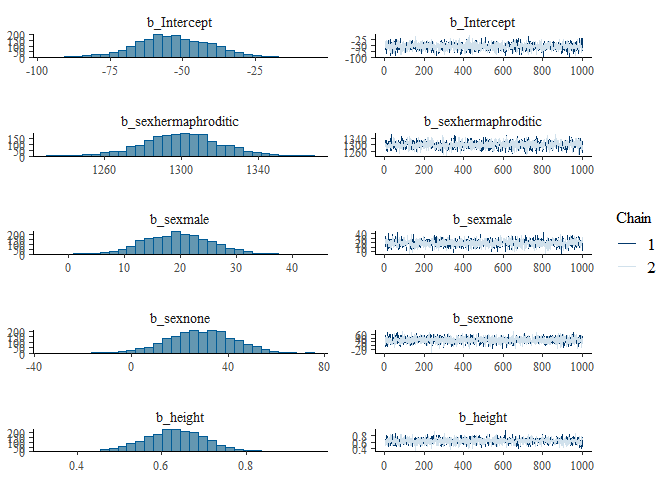
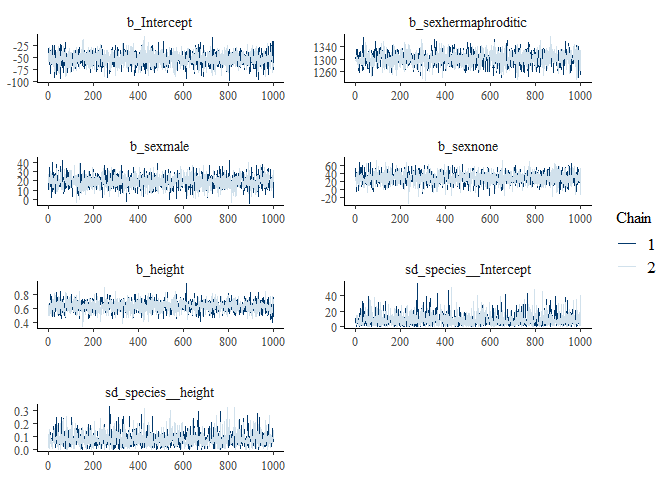
Edited README file

diff --git a/README.md b/README.md
@@ -28,28 +28,26 @@ Full documentation website on: <https://gabewinter.github.io/VarDecomp>
 ## Example
 
 ``` r
-library(VarDecomp)
-
 md = dplyr::starwars
 
-mod = brms_model(Chainset = "long", 
+mod = VarDecomp::brms_model(Chainset = 1, 
            Response = "mass", 
            FixedEffect = c("sex","height"), 
            RandomEffect = "species", 
            RandomSlope = "height", 
            Family = "gaussian", 
            Data = md, 
-          Seed = 0405)
-#> [1] "No problem 🤩"
+           Seed = 0405)
+#> [1] "No problem 😄"
 #> Warning: Rows containing NAs were excluded from the model.
 #> Compiling Stan program...
 #> Start sampling
 
-var_decomp(mod)
+VarDecomp::var_decomp(mod)
 #> New names:
 #> • `sex` -> `sex...1`
 #> • `sex` -> `sex...3`
-#> # A tibble: 16 × 6
+#> # A tibble: 15 × 6
 #>    variable                 mean   median     sd lower_HPD upper_HPD
 #>    <chr>                   <dbl>    <dbl>  <dbl>     <dbl>     <dbl>
 #>  1 Intercept             -53.2    -53.5   13.2     -79.2     -27.5  
@@ -59,13 +57,45 @@ var_decomp(mod)
 #>  5 height                  0.631    0.632  0.073     0.491     0.776
 #>  6 species_height          0.082    0.075  0.05      0         0.176
 #>  7 cor_species_height     -0.364   -0.545  0.573    -1         0.758
-#>  8 sigma                  14.5     14.4    1.93     10.9      18.2  
-#>  9 R2_height               0.816    0.82   0.049     0.719     0.909
-#> 10 R2_sexmale              0.004    0.004  0.001     0.001     0.006
-#> 11 R2_sexnone              0.002    0.002  0.001     0         0.004
-#> 12 R2_sexhermaphroditic    0.023    0.023  0.003     0.018     0.028
-#> 13 R2_FixedEffects         0.845    0.848  0.05      0.747     0.937
-#> 14 R2_species_height       0.014    0.008  0.019     0         0.049
-#> 15 R2_species             -0.06    -0.06   0.007    -0.074    -0.048
-#> 16 R2_residual             0.216    0.212  0.049     0.133     0.318
+#>  8 R2_height               0.017    0.017  0.004     0.01      0.025
+#>  9 R2_sexmale              0.003    0.002  0.002     0         0.006
+#> 10 R2_sexnone              0.002    0.002  0.002     0         0.006
+#> 11 R2_sexhermaphroditic    0.966    0.966  0.006     0.953     0.976
+#> 12 R2_sum_fixed_effects    0.987    0.988  0.003     0.981     0.993
+#> 13 R2_species_height       0.01     0.006  0.012     0         0.033
+#> 14 R2_species              0.005    0.005  0.003     0         0.012
+#> 15 R2_residual             0.007    0.007  0.002     0.004     0.011
+
+VarDecomp::model_fit(mod, Group = "sex")
+#> No divergences to plot.
+#> Using all posterior draws for ppc type 'loo_pit_qq' by default.
+#> Warning: Some Pareto k diagnostic values are too high. See help('pareto-k-diagnostic') for details.
+#> Warning: Some Pareto k diagnostic values are too high. See help('pareto-k-diagnostic') for details.
+#> Using all posterior draws for ppc type 'violin_grouped' by default.
+#> $`R-hat and Effective sample size`
+#> # A tibble: 1 × 2
+#>    Rhat EffectiveSampleSize
+#>   <dbl>               <dbl>
+#> 1  1.01               1744.
+#> 
+#> $`Traceplots plot`
 ```
+
+<img src="man/figures/README-example-1.png" width="100%" />
+
+    #> 
+    #> $`Posterior predictive check - Density overlay plot`
+
+<img src="man/figures/README-example-2.png" width="100%" />
+
+    #> 
+    #> $`Posterior predictive check - LOO-PIT-QQ plot`
+
+<img src="man/figures/README-example-3.png" width="100%" />
+
+    #> 
+    #> $`Posterior predictive check - Group density overlay plot`
+    #> Warning: Groups with fewer than two datapoints have been dropped.
+    #> ℹ Set `drop = FALSE` to consider such groups for position adjustment purposes.
+
+<img src="man/figures/README-example-4.png" width="100%" />
